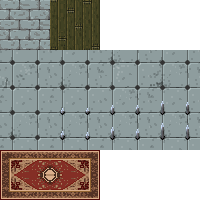
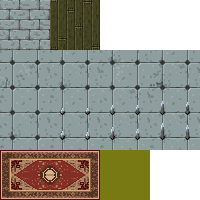
Added grass for game goal.

Changed region(s): [[0.48, 0.75, 0.75, 1.0]]

diff --git a/js/Rooms.js b/js/Rooms.js
@@ -167,15 +167,15 @@ rooms = {
         ],
         floor:
         [
-            10,10,10,10,10,10,11,71,71,9,10,10,10,10,10,10,
-            11,43,44,43,44,43,44,71,71,12,68,13,13,57,65,9,
-            11,49,50,49,50,49,50,71,71,200,69,23,23,58,69,9,
-            14,45,46,45,46,45,46,71,71,71,71,71,71,71,88,9,
-            201,71,71,71,71,71,71,71,71,71,71,30,71,71,71,9,
-            71,71,71,71,71,71,71,71,71,71,71,71,71,71,71,9,
-             8,71,71,71,71,71,71,71,71,71,71,71,71,71,71,9,
-            11,71,71,71,71,71,71,71,71,71,71,71,71,71,88,9,
-            17,7,7,7,7,7,8,71,71,6,7,7,7,7,7,18
+             10,10,10,10,10,10,11,71,71, 9,10,10,10,10,10,10,
+             11,43,44,43,44,43,44,71,71, 12,68,13,13,57,65,9,
+             11,49,50,49,50,49,50,71,71,200,69,23,23,58,69,9,
+             14,45,46,45,46,45,46,71,71, 71,71,71,71,71,88,9,
+            201,71,71,71,71,71,71,71,71, 71,71,30,71,71,71,9,
+             71,71,71,71,71,71,71,71,71, 71,71,71,71,71,71,9,
+              8,71,71,71,71,71,71,71,71, 71,71,71,71,71,71,9,
+             11,71,71,71,71,71,71,71,71, 71,71,71,71,71,88,9,
+             17, 7, 7, 7, 7, 7, 8,71,71,  6, 7, 7, 7, 7, 7,18
         ],
         ceiling:
         [
@@ -976,15 +976,15 @@ rooms = {
         ],
         floor:
             [ 
-            102,109,109,109,109,109,106,  0,  0,109,109,109,109,109,109,106,
-            103,110,110,110,110,110,107,  0,  0,110,110,110,110,110,110,107,
-              0,  0,  0,  0,  0,  0,  0,  0,  0,  0,  0,  0,  0,  0,  0,  0,
-              0,  0,  0,  0,  0,  0,  0,  0,  0,  0,  0,  0,  0,  0,  0,  0,
-              0,  0,  0,  0,  0,  0,  0,  0,  0,  0,  0,  0,  0,  0,  0,  0,
-              0,  0,  0,  0,  0,  0,  0,  0,  0,  0,  0,  0,  0,  0,  0,  0,
-              0,  0,  0,  0,  0,  0,  0,  0,  0,  0,  0,  0,  0,  0,  0,  0,
-              0,  0,  0,  0,  0,  0,  0,  0,  0,  0,  0,  0,  0,  0,  0,  0,
-              0,  0,  0,  0,  0,  0,  0,  0,  0,  0,  0,  0,  0,  0,  0,  0
+            102,109,109,109,109,109,106, 84, 84,109,109,109,109,109,109,106,
+            103,110,110,110,110,110,107, 84, 84,110,110,110,110,110,110,107,
+              3,  3,  3,  3,  3,  3,  3, 84, 84,  3,  3,  3,  3,  3,  3,  3,
+              3,  3,  3,  3,  3,  3,  3,  3,  3,  3,  3,  3,  3,  3,  3,  3,
+              3,  3,  3,  3,  3,  3,  3,  3,  3,  3,  3,  3,  3,  3,  3,  3,
+              3,  3,  3,  3,  3,  3,  3,  3,  3,  3,  3,  3,  3,  3,  3,  3,
+              3,  3,  3,  3,  3,  3,  3,  3,  3,  3,  3,  3,  3,  3,  3,  3,
+              3,  3,  3,  3,  3,  3,  3,  3,  3,  3,  3,  3,  3,  3,  3,  3,
+              3,  3,  3,  3,  3,  3,  3,  3,  3,  3,  3,  3,  3,  3,  3,  3
             ],
         ceiling:
           [

diff --git a/js/ImageLoading.js b/js/ImageLoading.js
@@ -236,6 +236,7 @@ function loadImages() {
     {tileType:TILE_SPIKE_4, imgX: 150, imgY: 100, theFile:"floors.png"},
     {tileType:TILE_CARPET_1, imgX: 0, imgY: 150, theFile:"floors.png"},
     {tileType:TILE_CARPET_2, imgX: 50, imgY: 150, theFile:"floors.png"},
+    {tileType:TILE_GOAL, imgX: 100, imgY: 150, theFile:"floors.png"},
 
 
     // cave

diff --git a/js/tileData.js b/js/tileData.js
@@ -179,7 +179,6 @@ TILES = {
   }
   
   transparentTiles = [
-  TILE_GOAL ,
   TILE_KEY ,
   TILE_SWORD ,
   TILE_PRISON_WALL_1 ,
